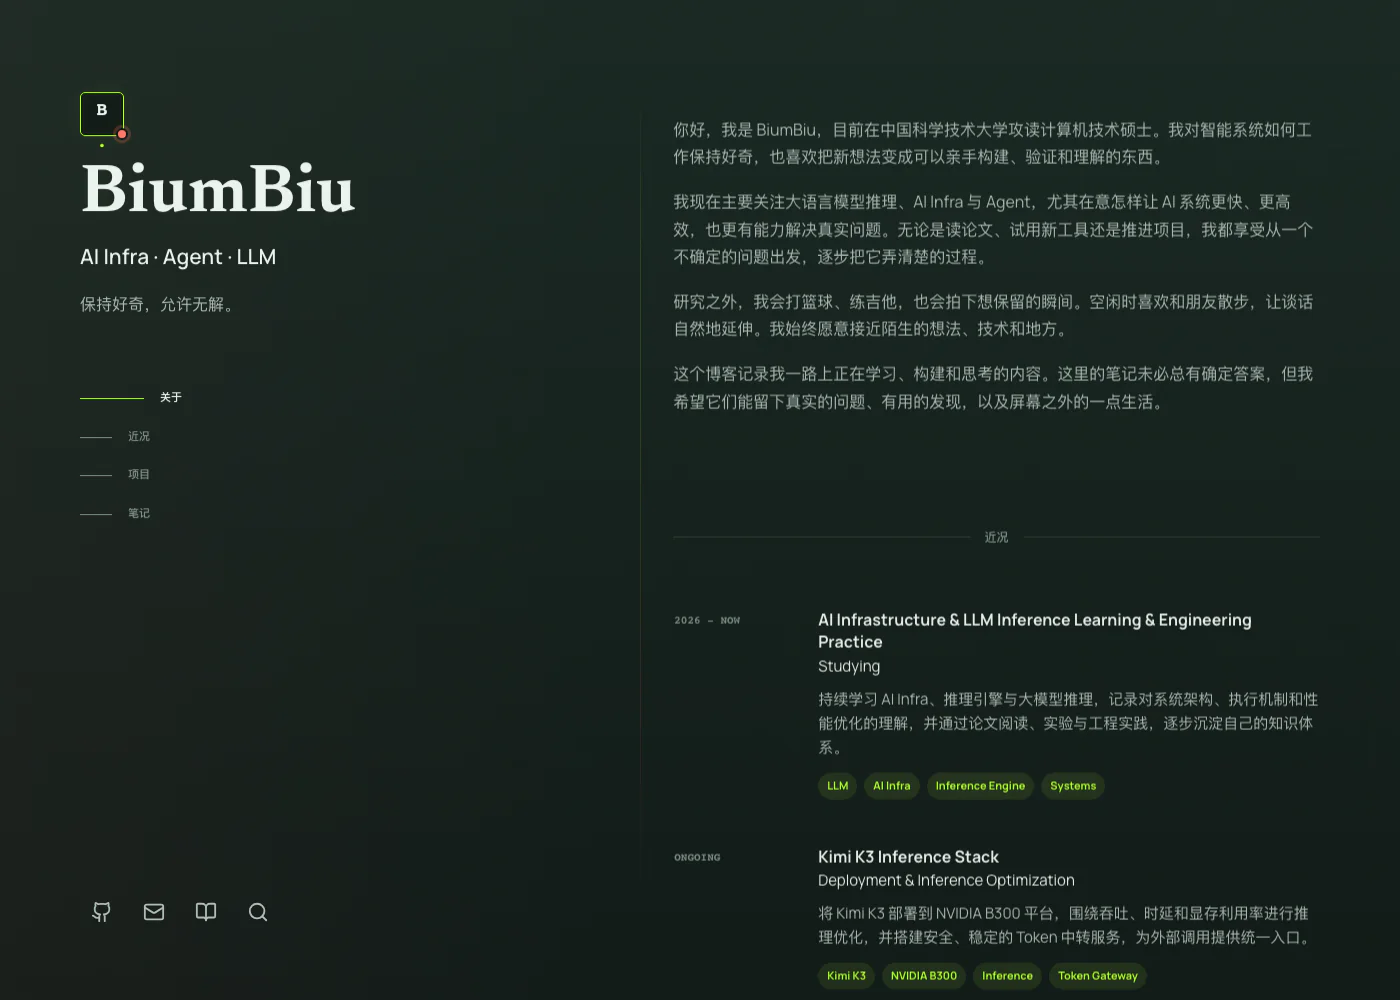
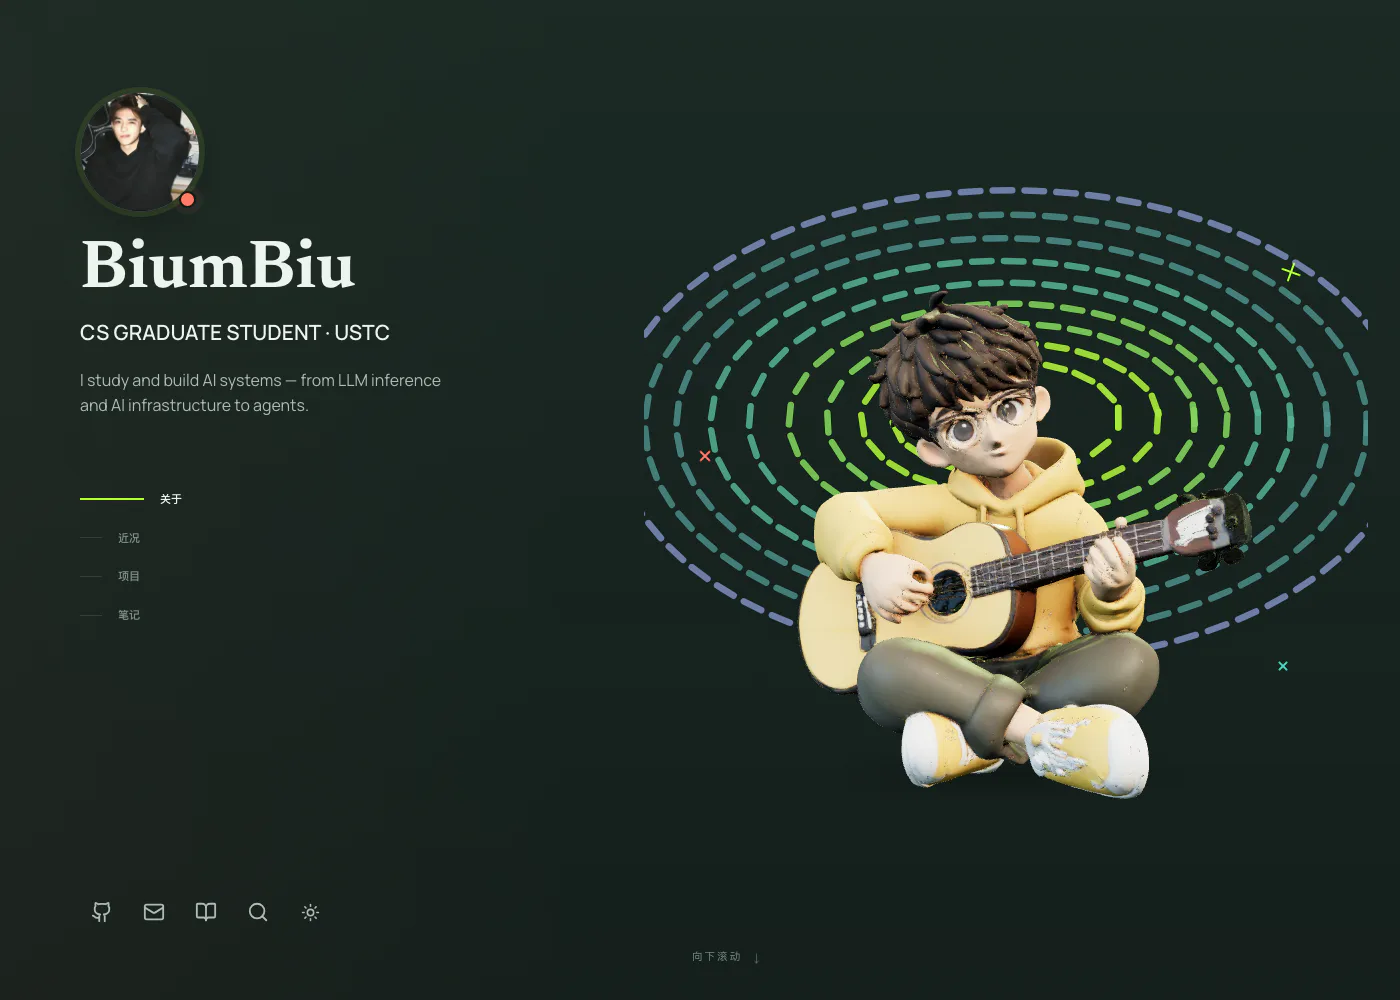
修改笔记，更新主页图片展示透明背景bug

diff --git a/src/styles/global.css b/src/styles/global.css
@@ -13,6 +13,7 @@
   --surface-raised: #17231f;
   --surface-scrim: rgba(10, 16, 14, 0.5);
   --surface-invert: #f7f9fc;
+  --media-dark: #0a100e;
   --text: #edf4ef;
   --body: #aebcb5;
   --muted: #7d8f86;
@@ -664,7 +665,7 @@ button, input, textarea { font: inherit; }
 .project-thumb-contain { background: var(--surface-invert); }
 .project-thumb-contain img { object-fit: contain; filter: none; }
 .focus-row:hover .project-thumb-contain img { filter: none; transform: none; }
-.project-thumb-dark { background: var(--bg-deep); }
+.project-thumb-dark { background: var(--media-dark); }
 .project-thumb-dark img { padding: 10px; }
 .focus-row:hover .project-thumb,
 .focus-row:hover .writing-thumb { border-color: rgba(185, 255, 67, 0.45); }
@@ -936,7 +937,7 @@ button, input, textarea { font: inherit; }
 .project-entry-media img { width: 100%; height: 100%; display: block; object-fit: cover; }
 .project-entry-media-contain { background: var(--surface-invert); }
 .project-entry-media-contain img { padding: 4%; object-fit: contain; }
-.project-entry-media-dark { background: #0a100e; }
+.project-entry-media-dark { background: var(--media-dark); }
 .project-entry-media-dark img { padding: 10%; object-fit: contain; }
 .project-entry-facts {
   grid-area: facts;
@@ -1092,7 +1093,7 @@ button, input, textarea { font: inherit; }
 .content-cover img { width: 100%; height: 100%; object-fit: cover; filter: saturate(0.78) contrast(1.04); }
 .content-cover-contain { background: var(--surface-invert); }
 .content-cover-contain img { padding: 8%; object-fit: contain; filter: none; }
-.content-cover-dark { background: var(--bg-deep); }
+.content-cover-dark { background: var(--media-dark); }
 .content-facts {
   margin: 54px 0 0;
   display: grid;

diff --git a/src/content/projects/biumbiu-site.md b/src/content/projects/biumbiu-site.md
@@ -1,50 +1,88 @@
 ---
 title: "BiumBiu.com"
-description: "一个以内容为中心的个人网站：使用 Astro 静态生成，通过 Markdown 管理项目和笔记，并由 Cloudflare Pages 自动发布。"
+description: "一个以内容为中心的个人网站：使用 Astro 管理项目与笔记，以 Three.js 提供首页交互，并由 Cloudflare Pages 和 D1 承担发布与访问量统计。"
 date: 2026-07-30
+updated: 2026-08-08
 period: "2026 - Now"
 role: "Design & Development"
 status: "Maintained"
-stack: "Astro / Cloudflare"
+stack: "Astro / TypeScript / Three.js / Cloudflare"
 image: "/images/biumbiu-site-cover.webp"
 imageAlt: "BiumBiu 个人网站首页的桌面端界面"
-tags: ["Astro", "TypeScript", "Content Collections", "Cloudflare Pages"]
+tags: ["Astro", "TypeScript", "Three.js", "Cloudflare Pages", "D1", "Content Collections"]
 featured: false
 order: 4
 ---
 
-BiumBiu.com 是我用来保存项目、技术笔记和阶段性思考的公开空间。它不需要登录、数据库或复杂后台，核心要求是快速、清楚，并且多年以后仍然容易维护。
+BiumBiu.com 是我用来保存项目、技术笔记和阶段性思考的公开空间。它不需要登录或复杂后台，核心要求是快速、清楚，并且多年以后仍然容易维护。
+
+## 项目目标
+
+首页需要在一个视图中交代我是谁、最近关注什么、做过哪些项目以及正在写什么；项目、笔记、标签和当前状态则拥有独立页面，方便继续浏览和检索。内容应该用普通 Markdown 长期保存，视觉与交互可以迭代，但不应该反过来绑架写作流程。
+
+## 三层职责
+
+站点把不同能力拆在各自合适的运行环境里：
+
+| 层级 | 职责 | 实现 |
+| --- | --- | --- |
+| 静态内容 | 页面、项目、笔记、标签与搜索索引 | Astro、Content Collections |
+| 浏览器交互 | 搜索、主题切换、首页信号场与 3D 模型 | TypeScript、Three.js |
+| 服务端能力 | 页面与全站访问量计数 | Pages Functions、D1 |
+
+大部分页面在构建阶段生成普通 HTML，线上不依赖常驻应用服务器。只有确实需要写入状态的访问量接口运行在 Cloudflare 边缘环境中。
 
 ## 内容优先
 
 站点最初直接用 Astro 页面保存文章。这样可以精确控制每个页面，但新增内容时还要手动维护首页和归档页，长期使用的成本很高。
 
-现在项目与笔记已经迁移到 Astro Content Collections。每篇内容都是一个普通 Markdown 文件，标题、日期、封面和标签写在文件开头；详情页、首页精选与归档列表都从同一份数据自动生成。
+现在项目与笔记统一由 Astro Content Collections 管理。每篇内容都是一个普通 Markdown 文件，标题、日期、封面、标签和草稿状态写在 frontmatter 中；详情页、首页精选、归档列表、标签页和搜索索引都从同一份数据自动生成。
 
 ```text
-src/content/projects/  -> 项目 Markdown
-src/content/notes/     -> 笔记 Markdown
-src/pages/[collection] -> 自动生成列表与详情
+src/content/projects/ -> 项目 Markdown
+src/content/notes/    -> 笔记 Markdown
+src/pages/            -> 列表、详情、标签、搜索与 RSS
 ```
+
+内容脚手架会默认创建草稿，开发环境可以预览，生产构建自动排除。文件名直接成为稳定的 URL slug，不需要额外维护路由表。
+
+## 首页视觉与交互
+
+桌面首页采用固定个人信息栏和滚动内容区，移动端收敛成单栏。首屏使用 Three.js 渲染可拖动、可用键盘操作的 GLB 个人形象，背景信号场和轻量视差用于建立层次，但不会遮挡主要内容。
+
+3D 模型同时提供静态 WebP 海报作为预载和加载失败回退。开发与构建前的资源脚本会根据模型内容自动更新海报并同步 Draco 解码器；用户偏好减少动态效果时，页面也会降低非必要动画。
+
+## 内容发现
+
+项目和笔记除了归档页，还可以通过标签与全文搜索互相连接。构建阶段生成的 `/search-index.json` 收录已发布内容的标题、摘要、标签和正文，浏览器端直接完成匹配，不依赖第三方搜索服务，也不会把草稿暴露到生产环境。
+
+站点同时生成 RSS 与 sitemap，让内容既能在站内被找到，也能被订阅工具和搜索引擎稳定发现。
 
 ## 发布链路
 
 > Markdown 内容 → Astro 静态构建 → Git 版本记录 → Cloudflare Pages → biumbiu.com
 
-Astro 在构建阶段输出普通 HTML，因此线上访问不依赖常驻服务器。Cloudflare Pages 连接生产分支，每次提交后自动安装依赖、执行检查并发布新版本。
+Cloudflare Pages 连接生产分支，每次提交后自动安装依赖、检查图片引用、执行 Astro 类型检查并发布 `dist/`。图片导入工具会统一方向、尺寸与 WebP 输出；缺失、损坏或仍需优化的资源能够在发布前被发现。
+
+页面访问量由 Pages Function 接收并写入 D1，同时记录当前路径和全站总量。Astro 本地开发不模拟这部分服务端环境，因此组件会在本地自动隐藏，完整链路放到 Cloudflare Preview 和正式环境验证。
 
 ## 设计取舍
 
-桌面首页采用固定信息栏和滚动内容区，适合快速浏览“关于、近况、项目、笔记”四组内容；移动端收敛成单栏，避免把桌面布局机械压缩。视觉系统使用深绿背景、荧光绿重点色和少量珊瑚红状态色，保持工程感，同时避免纯黑界面过于生硬。
+视觉系统使用深绿背景、荧光绿重点色和少量珊瑚红状态色，保持工程感，同时避免纯黑界面过于生硬。浅色与深色主题共享同一套信息层级，代码、表格、引用和正文宽度则围绕长时间阅读调整。
 
-交互只服务于信息层级：左侧导航显示当前阅读栏目，项目缩略图帮助快速识别内容，文章页面则收窄阅读宽度并强化标题、表格、代码和引用的节奏。
+交互只服务于信息层级：导航显示当前栏目，项目缩略图帮助快速识别内容，文章页提供目录和内容导航，首页模型有键盘入口与静态回退。站点不会为了视觉效果牺牲移动端布局、可读性或基本可访问性。
 
 ## 维护原则
 
 - 内容只有一个来源，列表页不重复填写标题与链接；
 - 草稿通过 frontmatter 控制，不会进入生产构建；
-- 图片统一放在 `public/images/`，Markdown 使用稳定的绝对路径；
-- 发布前执行类型检查、静态构建和主要链接验证；
+- `scripts/` 与浏览器端 `src/client/` 保持明确的运行环境边界；
+- 图片和模型放在 `public/`，并由检查或生成脚本维护关联资源；
+- 发布前执行图片检查、类型检查、静态构建与 Pages Function 编译；
 - 保留旧 URL，内容架构调整不破坏已经分享出去的链接。
 
-这个网站不会追求不断增加页面。更重要的是让记录一项工作、修改一篇文章和回看过去都足够轻松。
+## 当前结果
+
+网站已经形成一条可重复的维护路径：用 Markdown 新增内容，用脚本处理图片和模型，用 Astro 生成页面、索引、RSS 与 sitemap，用少量浏览器代码增强交互，再由 Cloudflare Pages、Functions 和 D1 完成发布与统计。
+
+这个项目不会以不断增加页面为目标。更重要的是让记录一项工作、修改一篇文章和回看过去都足够轻松，同时让每次更新仍然能够被构建和检查流程验证。

diff --git a/src/content/notes/personal-infrastructure.md b/src/content/notes/personal-infrastructure.md
@@ -27,19 +27,13 @@ order: 2
 - 数据入口：Xray 在公网 `443/tcp` 接收连接；
 - 订阅服务：作为独立的 HTTPS 服务处理，不和节点数据通道混为一谈。
 
-## DNS 的第一个误判
+## 关于 DNS 的一个误判
 
 我先在 Cloudflare 创建节点子域名的 A 记录，让它指向美国 VPS。这里必须使用 DNS only。Cloudflare 的普通代理面向 HTTP/HTTPS，不能直接代理这条原生 REALITY TCP 连接。
 
 第一次执行 DNS 查询时，结果却是 `198.18.2.16`。这并不是域名绑定错误，而是本地代理的 Fake-IP 机制返回了保留地址。关闭代理后，再用公共解析器查询，域名才显示真实 VPS IP。
 
 排查 DNS 时要区分“系统实际使用的代理 DNS”和“公网权威解析结果”。看到 `198.18.0.0/15` 一类地址时，应先想到 Fake-IP，而不是立刻修改 Cloudflare 记录。
-
-## 服务器命令必须在服务器执行
-
-部署早期我在 Mac 终端直接运行 `ufw`，得到 `zsh: command not found: ufw`。问题不是 Ubuntu 缺少组件，而是命令仍在本机执行。正确顺序是先通过 `ssh root@VPS_PUBLIC_IP` 进入 VPS，再处理系统更新、防火墙和服务。
-
-公网至少需要放行 SSH 管理端口和节点使用的 `443/tcp`。修改防火墙前必须先保证当前 SSH 会话不会被锁在外面；服务商控制台也应作为最后的恢复入口保留。
 
 ## 3x-ui 面板不直接暴露公网
 

diff --git a/src/content/notes/deepseek-v4-flash-sglang-a100-deploy.md b/src/content/notes/deepseek-v4-flash-sglang-a100-deploy.md
@@ -20,7 +20,7 @@ category: "Field note"
 > - 目标：从官方 checkpoint 出发，完成模型转换、A100 适配、TP=4 部署、API
 >   鉴权、DSpark 加速和端到端验证
 
-这是我第一次从头走完一个大模型的完整部署流程。
+这是一个从头走完一个大模型的完整部署流程。
 
 这里的“完整”不只是把服务进程启动起来，而是包含下载和校验官方模型、理解权重
 格式、做离线转换、补齐 A100 不支持的计算路径、接入 SGLang、启动多卡推理、验证
